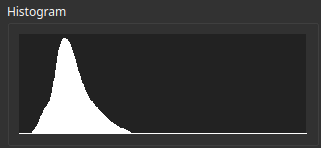
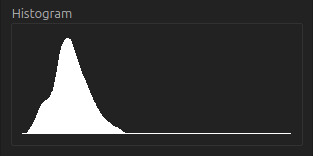
update screenshots on v1.0 processing panel docs

Changed region(s): [[0.0575, 0.2432, 0.9489, 0.9189], [0.0, 0.027, 1.0, 1.0], [0.0, 0.1622, 0.0288, 0.973]]

diff --git a/website/content/fr/docs/v1.0/userguide/ui/processing/_index.md b/website/content/fr/docs/v1.0/userguide/ui/processing/_index.md
@@ -2,7 +2,7 @@
 title: "Traitements"
 description: "Documentation du panneau Traitements de ALS"
 author: "Équipe ALS"
-lastmod: 2026-06-11T00:33:39Z
+lastmod: 2026-06-11T12:51:43Z
 keywords: [ "traitements ALS", "histogramme", "auto stretch", "niveaux", "balance RVB", "curseurs", "panneaux" ]
 type: "docs"
 tags: [ "histogramme", "stretch", "niveaux", "balance rvb", "saturation", "ajustement d’image", "curseurs", "traitement", "panneaux" ]
@@ -39,8 +39,8 @@ Situé sur le côté droit de l’interface, ce panneau regroupe les contrôles 
 <div class="col-md-4 d-flex align-items-center justify-content-center">
 {{< figure src="panel.png" 
 caption="Le panneau Traitements" 
-width="297px"
-height="675px"
+width="313px"
+height="677px"
 alt="Le panneau Traitements de ALS, incluant les sections Histogramme, Auto Stretch, Niveaux, et Balance RVB avec leurs curseurs et contrôles associés." >}}
 </div>
 </div>
@@ -75,8 +75,8 @@ pixels de l’image.
 {{< center >}}
 {{< figure src="histo_mono.png"
 caption="Histogramme monochrome"
-width="321px"
-height="148px"
+width="313px"
+height="156px"
 alt="Histogramme dynamique reflétant la répartition des valeurs d’intensité lumineuse d'une image monochrome" >}}
 {{< /center >}}
 </div>
@@ -99,8 +99,8 @@ Les zones où les courbes se chevauchent sont colorées selon le mélange des co
 {{< center >}}
 {{< figure src="histo.png"
 caption="Histogramme couleur"
-width="318px"
-height="147px"
+width="313px"
+height="154px"
 alt="Histogramme dynamique reflétant la répartition des valeurs d’intensité lumineuse d'une image en couleurs" >}}
 {{< /center >}}
 </div>
@@ -173,8 +173,8 @@ images empilées exploitables.
 <div class="col-md-4 d-flex align-items-center justify-content-center">
 {{< figure src="levels.png"
 caption="Histogramme après ajustement du noir"
-width="318px"
-height="147px"
+width="313px"
+height="151px"
 alt="Histogramme montrant les courbes après réglages précis des niveaux noirs" >}}
 </div>
 </div>
@@ -234,8 +234,8 @@ alt="Histogramme montrant les courbes après réglages précis des niveaux noirs
   <div class="mb-3">
     {{< figure src="rgb.png"
     caption="Histogramme d'une image neutre"
-    width="320px"
-    height="146px"
+    width="313px"
+    height="155px"
     alt="Histogramme montrant des pics alignés pour une image colorimétriquement neutre." >}}
   </div>
 
@@ -259,8 +259,8 @@ Le mélange des couleurs de l'histogramme rend bien compte de la dominante rouge
   <div>
     {{< figure src="h-alpha.png"
     caption="Histogramme d'une cible H-alpha"
-    width="320px"
-    height="146px"
+    width="313px"
+    height="155px"
     alt="Histogramme montrant la dominance rouge d'une image H-alpha correctement ajustée." >}}
   </div>
 

diff --git a/website/content/en/docs/v1.0/userguide/ui/processing/_index.md b/website/content/en/docs/v1.0/userguide/ui/processing/_index.md
@@ -2,7 +2,7 @@
 title: "Processing"
 description: "Documentation for the ALS Processing Panel"
 author: "ALS Team"
-lastmod: 2026-06-11T00:33:39Z
+lastmod: 2026-06-11T12:51:43Z
 keywords: [ "ALS processing", "histogram", "auto stretch", "levels", "RGB balance", "sliders", "panels" ]
 type: "docs"
 tags: [ "histogram", "stretch", "levels", "color balance", "saturation", "image adjustment", "sliders", "processing", "panels" ]
@@ -39,7 +39,7 @@ Located on the right side of the interface, this panel organizes image processin
 <div class="col-md-4 d-flex align-items-center justify-content-center">
 {{< figure src="panel.png" 
 caption="The Processing Panel" 
-width="297px"
+width="313px"
 height="677px"
 alt="The ALS Processing Panel, including the Histogram, Auto Stretch, Levels, and RGB Balance sections with their respective sliders and controls." >}}
 </div>
@@ -71,8 +71,8 @@ For monochrome images, a single curve is displayed, showing the intensity distri
 {{< center >}}
 {{< figure src="histo_mono.png"
 caption="Monochrome Histogram"
-width="321px"
-height="148px"
+width="313px"
+height="156px"
 alt="Dynamic histogram reflecting the intensity distribution of pixels in a monochrome image." >}}
 {{< /center >}}
 </div>
@@ -94,8 +94,8 @@ Overlapping regions are displayed in mixed colors that represent the resulting b
 {{< center >}}
 {{< figure src="histo.png"
 caption="Color Histogram"
-width="318px"
-height="147px"
+width="313px"
+height="154px"
 alt="Dynamic histogram reflecting the intensity distribution of pixels in a color image" >}}
 {{< /center >}}
 </div>
@@ -161,8 +161,8 @@ The **Auto Stretch** section adjusts the intensity of the automatic stretch appl
 <div class="col-md-4 d-flex align-items-center justify-content-center">
 {{< figure src="levels.png"
 caption="Histogram after Black adjustment"
-width="318px"
-height="147px"
+width="313px"
+height="151px"
 alt="Histogram showing the curves after precise adjustments to black levels." >}}
 </div>
 </div>
@@ -219,8 +219,8 @@ alt="Histogram showing the curves after precise adjustments to black levels." >}
   <div class="mb-3">
     {{< figure src="rgb.png"
     caption="Histogram of a neutral color image"
-    width="320px"
-    height="146px"
+    width="313px"
+    height="155px"
     alt="Histogram showing aligned peaks for RGB curves in a color-neutral image." >}}
   </div>
 
@@ -244,8 +244,8 @@ The blended colors of the histogram effectively reflect the image's red dominanc
   <div>
     {{< figure src="h-alpha.png"
     caption="Histogram of an H-alpha target"
-    width="320px"
-    height="146px"
+    width="313px"
+    height="155px"
     alt="Histogram showing the red dominance of a correctly adjusted H-alpha image." >}}
   </div>
 
